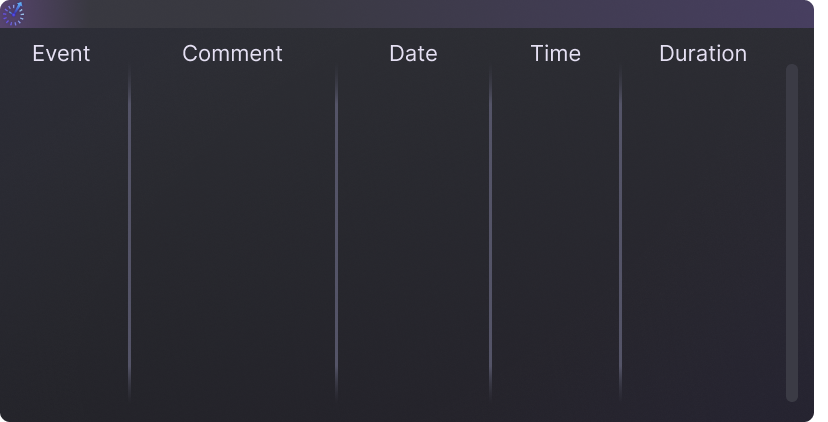
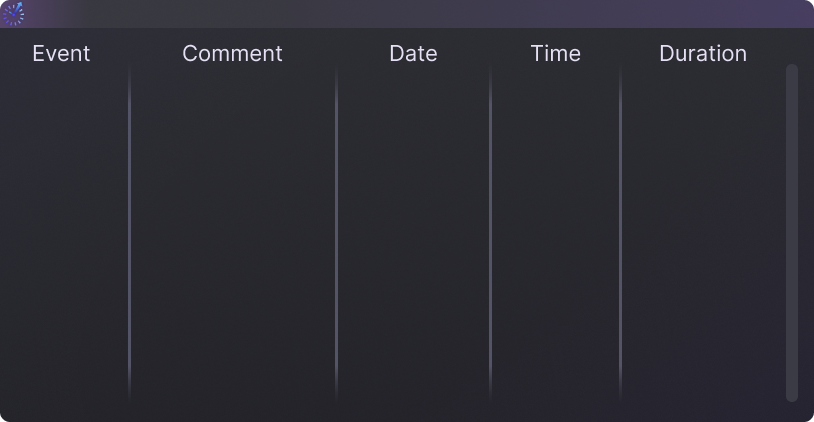
patvarkytas formatavimas

diff --git a/frontend/EventWindow.cpp b/frontend/EventWindow.cpp
@@ -78,7 +78,7 @@ struct EventWindow::EventWindowImpl {
 
     void draw() {
         sf::Sprite windowSprite(windowTexture);
-        windowSprite.setPosition(0, 5);
+        windowSprite.setPosition(0, 0);
         renderWindow->draw(windowSprite);
 
         sf::Font font;
